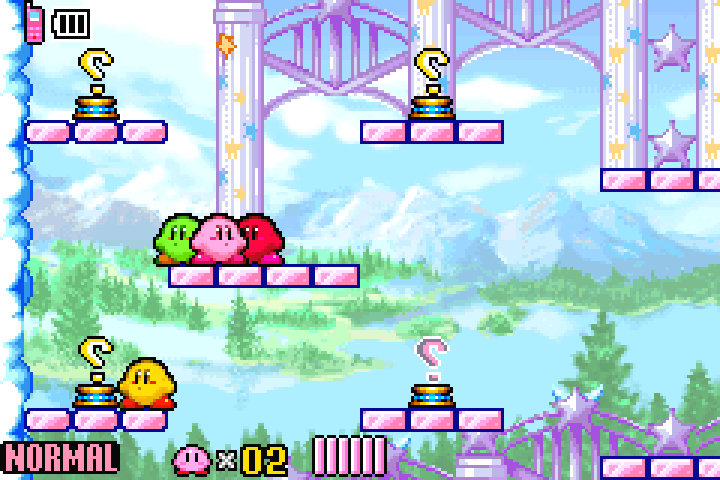
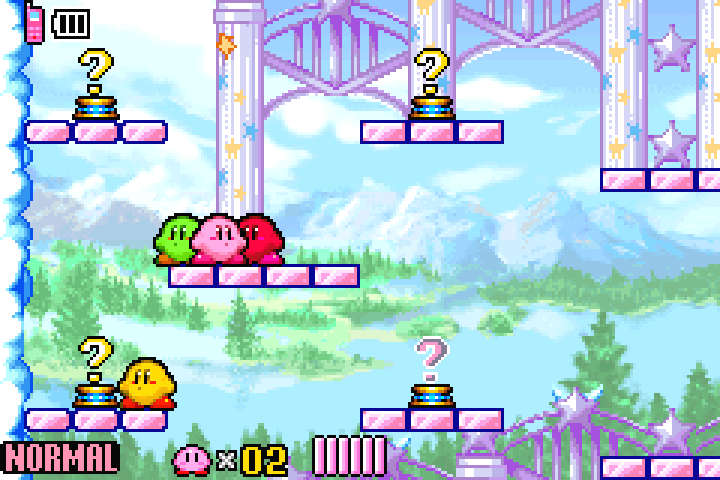
Keep random statue question marks readable in both facings (AI-assisted)

diff --git a/worlds/kirbyam/test/test_statue_art.py b/worlds/kirbyam/test/test_statue_art.py
@@ -12,6 +12,7 @@ from ..statue_art import (
     GRANT_TABLE_OFFSET, NATIVE_ANIM_TABLE_OFFSET, NATIVE_SCRIPT_OFFSET,
     NATIVE_STATUE_ABILITIES, NATIVE_VARIANTS, ROM_BASE, STATUE_VISUAL_MODE_FILE,
     TILES_BASE, apply_statue_visuals, encode_statue_tiles, load_statue_pixels,
+    SPRITE_DRAW_OFFSET, SPRITE_DRAW_PROLOGUE, STATUE_FACING_HOOK,
 )
 from ..rom import KirbyAmPatchExtension, KirbyAmProcedurePatch, write_tokens
 from .test_rom_tokens import _DummyPatch, _make_world
@@ -19,6 +20,7 @@ from .test_rom_tokens import _DummyPatch, _make_world
 
 def native_fixture() -> bytes:
     rom = bytearray(0x1010000)
+    rom[SPRITE_DRAW_OFFSET:SPRITE_DRAW_OFFSET + 8] = SPRITE_DRAW_PROLOGUE
     struct.pack_into('<6I', rom, 0x3B909C, 0x08448574, 0x084789C4, 0x084BA240,
                      0x084BB0EC, ROM_BASE + TILES_BASE, 0x08869B6C)
     struct.pack_into('<I', rom, ANIM_POINTER_OFFSET, ROM_BASE + NATIVE_ANIM_TABLE_OFFSET)
@@ -56,6 +58,12 @@ def test_every_slot_and_ability(mode: int, ability: str) -> None:
     restored = bytearray(rom[:len(original)])
     restored[ANIM_POINTER_OFFSET:ANIM_POINTER_OFFSET + 4] = original[ANIM_POINTER_OFFSET:ANIM_POINTER_OFFSET + 4]
     restored[ANIM_INFO_OFFSET:ANIM_INFO_OFFSET + 76] = original[ANIM_INFO_OFFSET:ANIM_INFO_OFFSET + 76]
+    if mode == 2:
+        assert restored[SPRITE_DRAW_OFFSET:SPRITE_DRAW_OFFSET + 4] == bytes.fromhex('004b1847')
+        hook = struct.unpack_from('<I', restored, SPRITE_DRAW_OFFSET + 4)[0]
+        assert hook & 1 and (hook & ~1) - ROM_BASE >= len(original)
+        assert rom[(hook & ~1) - ROM_BASE:] == STATUE_FACING_HOOK
+        restored[SPRITE_DRAW_OFFSET:SPRITE_DRAW_OFFSET + 8] = SPRITE_DRAW_PROLOGUE
     assert restored == original
     pixels = load_statue_pixels()
     for i, name in enumerate(CUSTOM_STATUE_ABILITIES):
@@ -169,3 +177,50 @@ def test_native_metadata_validation(mutation: str) -> None:
         beam['animation_info_rom_offset'] = '0x3536E8'  # Master Sword
     with pytest.raises(ValueError):
         parse_native_statues(data)
+
+
+def test_facing_hook_rejects_changed_entry_only_when_needed() -> None:
+    rom = bytearray(native_fixture())
+    rom[SPRITE_DRAW_OFFSET] ^= 1
+    with pytest.raises(ValueError, match="sprite-draw prologue"):
+        apply_statue_visuals(bytes(rom), 2)
+    shuffled = apply_statue_visuals(bytes(rom), 1)
+    assert shuffled[SPRITE_DRAW_OFFSET:SPRITE_DRAW_OFFSET + 8] == rom[SPRITE_DRAW_OFFSET:SPRITE_DRAW_OFFSET + 8]
+
+
+def test_thumb_facing_guard_execution() -> None:
+    """Execute shipped bytes for both orientations and ended animations."""
+    uc = pytest.importorskip("unicorn")
+    from unicorn import arm_const as arm
+
+    emu = uc.Uc(uc.UC_ARCH_ARM, uc.UC_MODE_THUMB)
+    emu.mem_map(ROM_BASE, 0x200000)
+    emu.mem_map(0x02000000, 0x10000)
+    entry = ROM_BASE + SPRITE_DRAW_OFFSET
+    hook = ROM_BASE + 0x180000
+    emu.mem_write(entry, bytes.fromhex("004b1847") + struct.pack("<I", hook | 1))
+    emu.mem_write(hook, STATUE_FACING_HOOK)
+    registers = [getattr(arm, f"UC_ARM_REG_R{i}") for i in range(13)] + [arm.UC_ARM_REG_SP, arm.UC_ARM_REG_LR]
+    for anim in (0x383, 0x384, 0x385):
+        for variant in range(38):
+            for flags in (0, 0x400, 0x4400, 0xFFFFFFFF):
+                sprite = bytearray(range(40))
+                struct.pack_into("<IH", sprite, 8, flags, anim)
+                sprite[26] = variant
+                emu.mem_write(0x02000100, bytes(sprite))
+                values = [0x02000100] + list(range(1, 13)) + [0x02008000, 0x08000001]
+                for register, value in zip(registers, values):
+                    emu.reg_write(register, value)
+                emu.emu_start(entry | 1, entry + 8, count=50)
+                assert emu.reg_read(arm.UC_ARM_REG_PC) == entry + 8
+                expected = bytearray(sprite)
+                if anim == 0x384 and variant == 37:
+                    struct.pack_into("<I", expected, 8, flags & ~0x400)
+                assert emu.mem_read(0x02000100, 40) == expected
+                # Replay the native prologue; r1-r3 are caller-clobbered.
+                assert emu.mem_read(0x02008000 - 20, 20) == struct.pack("<5I", 4, 5, 6, 7, 0x08000001)
+                preserved = {0: values[0], 4: 4, 5: 8, 6: 9, 7: 10,
+                             8: 8, 9: 9, 10: 10, 11: 11, 12: 12,
+                             13: 0x02008000 - 20, 14: 0x08000001}
+                for index, value in preserved.items():
+                    assert emu.reg_read(registers[index]) == value

diff --git a/worlds/kirbyam/statue_art.py b/worlds/kirbyam/statue_art.py
@@ -22,6 +22,13 @@ NATIVE_SCRIPT_OFFSET = 0x4405B0
 TILES_BASE = 0x4BED4C
 ROM_BASE = 0x08000000
 NATIVE_VARIANT_COUNT = 31
+SPRITE_DRAW_OFFSET = 0x15604C
+SPRITE_DRAW_PROLOGUE = bytes.fromhex("f0b557464e464546")
+# Assembled from kirby_ap_payload/statue_facing.s (ARM7TDMI Thumb).
+STATUE_FACING_HOOK = bytes.fromhex(
+    "8189e1229200914207d1817e252904d181680422120291438160"
+    "f0b557464e464546014b1847c04655601508"
+)
 
 
 def parse_native_statues(abilities: dict[str, object]) -> tuple[tuple[str, int], ...]:
@@ -95,9 +102,9 @@ def apply_statue_visuals(rom: bytes, mode: int) -> bytes:
     """Apply after grant tokens. 0 is off/disabled, 1 shuffled, 2 per-touch random.
 
     Allocate at EOF, so other append-only extensions cannot be overwritten.
-    Validate the native layout before modifying anything. No base-patch rebuild
-    or runtime hook is needed. The Master Sword's record follows our 19 records
-    and is deliberately excluded.
+    Validate the native layout before modifying anything. Random mode appends
+    a narrowly guarded sprite-draw shim; no base-patch rebuild is needed.
+    The Master Sword's record follows our 19 records and is deliberately excluded.
     """
     if mode == 0:
         return rom
@@ -131,6 +138,8 @@ def apply_statue_visuals(rom: bytes, mode: int) -> bytes:
     grants = rom[GRANT_TABLE_OFFSET:GRANT_TABLE_OFFSET + 19]
     if any(ability not in variants for ability in grants):
         raise ValueError("Statue grant is outside the 25 supported abilities")
+    if mode == 2 and rom[SPRITE_DRAW_OFFSET:SPRITE_DRAW_OFFSET + 8] != SPRITE_DRAW_PROLOGUE:
+        raise ValueError("Unexpected native sprite-draw prologue (or already hooked)")
     pixels = load_statue_pixels()
     result = bytearray(rom)
     result.extend(b"APSTAT01")
@@ -151,4 +160,13 @@ def apply_statue_visuals(rom: bytes, mode: int) -> bytes:
     for i, ability in enumerate(grants):
         variant = variants[ability] if mode == 1 else NATIVE_VARIANT_COUNT + 6
         struct.pack_into("<HBB", result, ANIM_INFO_OFFSET + i * 4, 0x384, variant, 0)
+    if mode == 2:
+        hook_offset = len(result)
+        assert hook_offset % 4 == 0
+        result.extend(STATUE_FACING_HOOK)
+        # Thumb absolute tail jump. The shim replays the displaced instructions
+        # before returning to the native function; only '?' facing is changed.
+        result[SPRITE_DRAW_OFFSET:SPRITE_DRAW_OFFSET + 8] = (
+            bytes.fromhex("004b1847") + struct.pack("<I", ROM_BASE + hook_offset + 1)
+        )
     return bytes(result)

diff --git a/worlds/kirbyam/dev-docs/statue-visuals.md b/worlds/kirbyam/dev-docs/statue-visuals.md
@@ -57,7 +57,7 @@ No graphics from another Kirby game were copied.
 
 The `apply_statue_art` patch procedure runs **after** generation's grant tokens.
 It reads the resulting 19 grants, validates the native animation records, and
-changes only their display selectors plus animation `0x384`'s table pointer.
+changes their display selectors plus animation `0x384`'s table pointer.
 It preserves all 31 original variant pointers and appends seven custom variants.
 Their scripts reuse native frame 11 (one 16×16 OBJ) and palette 429. All pixel
 rows are editable hexadecimal palette indexes in `data/statue_art.json`; no
@@ -65,8 +65,16 @@ image library is needed to apply a patch. The art data and encoder are separate
 from statue gameplay and can support a later pickup-icon feature.
 
 The extension is aligned and appended at EOF. It never occupies presumed free
-retail padding or overwrites another appended extension. No native hook,
-mailbox/save field, RNG, collision, touch callback, or grant byte changes.
+retail padding or overwrites another appended extension. Completely Random mode
+also guards the USA `DisplaySprite` entry at file offset `0x15604C`, after
+validating its displaced eight-byte prologue. The appended Thumb guard clears
+only the sprite horizontal-flip flag for animation `0x384`, variant 37, then
+replays the prologue and resumes at `0x08156054`. This final drawing boundary
+covers both normal updates and the separate collection-effect redraw path.
+Object facing, native icons, all other animation variants, mailbox/save fields,
+RNG, collision, touch callbacks, and grant bytes remain unchanged. The standalone
+source is `kirby_ap_payload/statue_facing.s`; its assembled bytes are embedded
+in the patch module. Off and Shuffled modes do not install this hook.
 `base_patch.bsdiff4` is unchanged and does not require regeneration for this PR.
 Changing the shared base patch for another feature still requires the normal
 source-based rebuild; do not choose conflicting binaries mechanically.
@@ -93,9 +101,15 @@ interactive emulator were not used or modified; ROMs and states remain private.
 
 These are controlled visual/collection fixtures, not acceptance of a full
 randomized multiworld session. Linked-GBA co-op, save/reload, reconnect, and
-human art approval are not claimed. The question glyph currently follows the
-native statue facing and therefore mirrors on opposite-facing stands; that
-presentation needs review before this draft is finalized.
+human art approval are not claimed. The final question glyph was checked with
+both native facing values in room 950, during movement and the Cook collection
+effect. Read-only runtime observations confirmed object facing values 0 and 1
+remain intact while rendered question sprites have horizontal flip cleared.
+A Thumb execution test checks all 38 variants across three animation IDs and
+four flag combinations (456 cases), including the ended-animation flag; only
+the question variant changes. It also checks native prologue register/stack
+behavior. This execution test requires the optional Unicorn package. The draft
+remains held for art review and outside the v0.5.0 release scope.
 
 | Cook | Crash | Magic |
 | --- | --- | --- |
@@ -108,3 +122,9 @@ presentation needs review before this draft is finalized.
 | Completely Random display | Native/off | Mixed shuffled display |
 | --- | --- | --- |
 | ![Question](assets/statues/question.png) | ![Off](assets/statues/off.png) | ![Mixed](assets/statues/mixed.png) |
+
+Both-facing gameplay and collection-effect regression captures:
+
+![Both native facings](assets/statues/question-facing.png)
+
+![Collection effect](assets/statues/question-collection.png)
